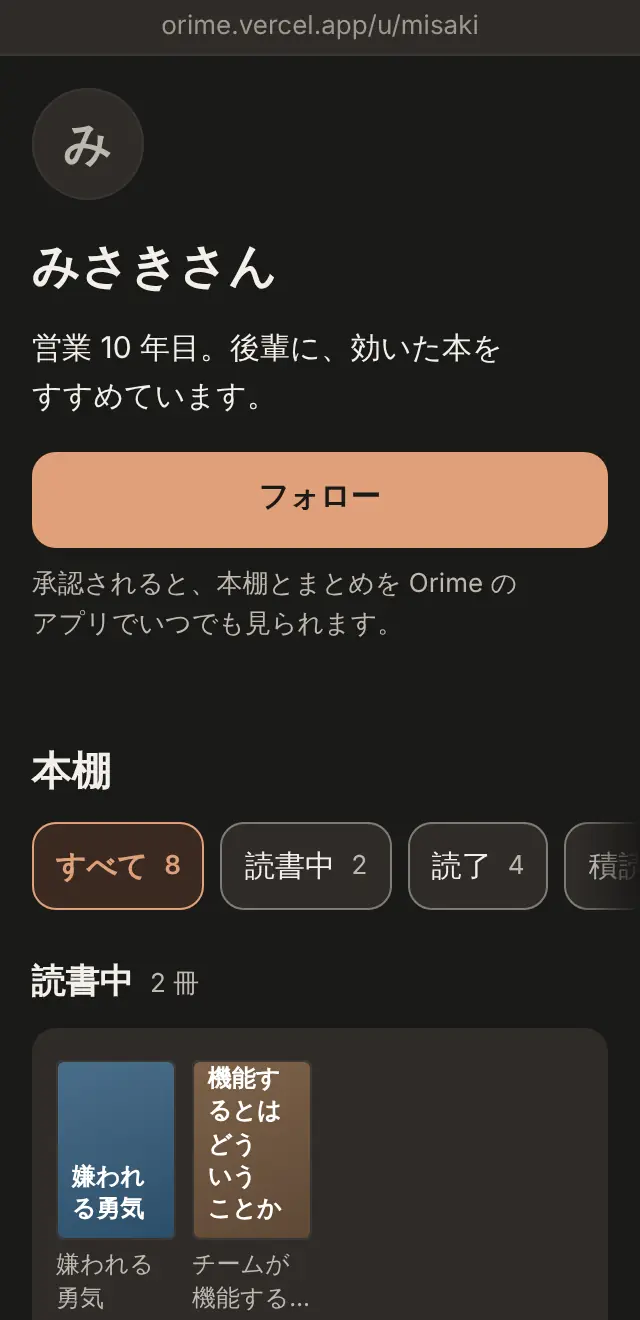
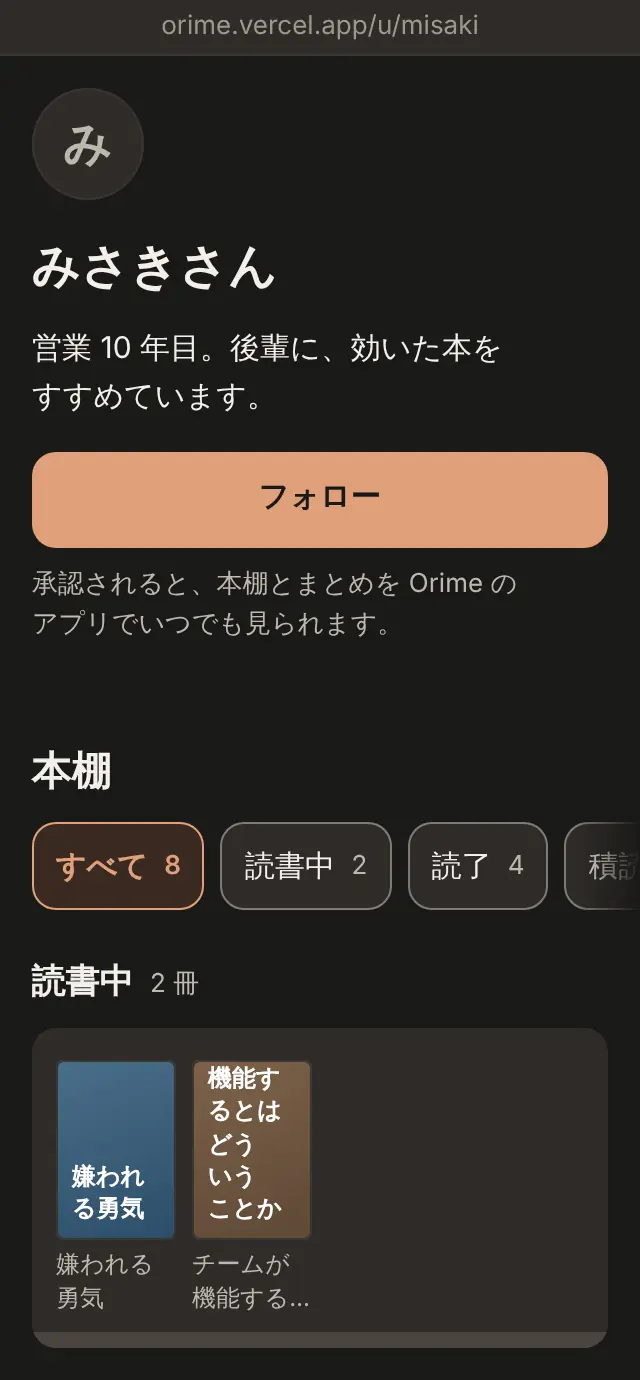
fix: LP の共有の節の画面写真を区切りで切る・広い画面で実寸に近く・リードを言い過ぎない形に
Claude-Session: https://claude.ai/code/session_01CJtCb5D8mXkG5XEeRMX4M7

diff --git a/src/pages/lpCopy.js b/src/pages/lpCopy.js
@@ -143,10 +143,10 @@ export const BASIS = {
 export const SOCIAL = {
   h2: ['薦めたい本は、', 'リンク 1 つで。'],
   soon: 'まもなく使えます',
-  lead: ['「この本、読んでみて」と、後輩や同僚に薦めるとき。', 'リンクを送れば、相手はアプリが無くても読めて、気になった本を「読みたい」に入れられます。'],
+  lead: ['「この本、読んでみて」と、後輩や同僚に薦めるとき。', 'リンクを送れば、相手はアプリが無くても読めます。'],
   shots: [
-    { name: 'social-book', caption: '1 冊を送る', alt: '共有した 1 冊のページ。書名と評価、その人の「この本のまとめ」、「読みたいに追加」のボタン' },
-    { name: 'social-shelf', caption: '本棚を見せる', alt: '公開した本棚のページ。名前と自己紹介、「フォロー」のボタン、読書中の本が本棚に並ぶ' },
+    { name: 'social-book', caption: 'この本を共有', h: 608, alt: '共有した 1 冊のページ。書名と評価、その人の「この本のまとめ」、「読みたいに追加」のボタン' },
+    { name: 'social-shelf', caption: '本棚を見せる', h: 690, alt: '公開した本棚のページ。名前と自己紹介、「フォロー」のボタン、読書中の本が本棚に並ぶ' },
   ],
   items: [
     { icon: 'book', title: 'この本を共有', body: '1 冊のページのリンクを送れます。相談のもとになる、あなたのまとめも一緒に。' },

diff --git a/src/pages/landing.css b/src/pages/landing.css
@@ -1477,9 +1477,8 @@ body.lp-active {
 .lp-web-shot {
   display: block; width: 100%; height: auto; border-radius: var(--radius);
   border: 1px solid var(--separator); background: var(--bg);
-  -webkit-mask-image: linear-gradient(to bottom, black 88%, transparent); mask-image: linear-gradient(to bottom, black 88%, transparent);
 }
-.lp-root .lp-social-cap { margin: var(--space-2) 0 0; font-size: var(--text-sub); font-weight: 600; color: var(--text); text-align: center; }
+.lp-root .lp-social-cap { margin: var(--space-2) 0 0; font-size: var(--text-sub); font-weight: 600; color: var(--text); text-align: start; }
 .lp-social-text .lp-feat { grid-template-columns: minmax(0, 1fr); }
 /* スマホ: 2 枚を横に送る（文字がほぼ実寸で読める幅・2 枚目の頭が見えて送れると分かる） */
 @media (max-width: 767px) {
@@ -1493,5 +1492,8 @@ body.lp-active {
   .lp-social-shots > li { scroll-snap-align: start; }
 }
 @media (min-width: 1024px) {
-  .lp-social-body { grid-template-columns: minmax(0, 1.1fr) minmax(0, 1fr); gap: var(--space-16); align-items: start; }
+  /* 画像 2 枚は実寸に近い幅（中の文字が 12 前後）・文の列は残り・3 つは画像の高さの中央に。題は右の列と同じなので出さない */
+  .lp-social-body { grid-template-columns: auto minmax(0, 1fr); gap: var(--space-12); align-items: center; }
+  .lp-social-shots { grid-template-columns: repeat(2, var(--lp-shot-w)); align-items: start; }
+  .lp-root .lp-social-cap { display: none; }
 }

diff --git a/src/pages/Landing.jsx b/src/pages/Landing.jsx
@@ -668,7 +668,7 @@ export default function Landing() {
               <ul className="lp-social-shots">
                 {SOCIAL.shots.map((s) => (
                   <li key={s.name}>
-                    <Shot name={s.name} alt={s.alt} ratio={[320, 660]} className="lp-web-shot" sizes="(min-width: 768px) 280px, 44vw" />
+                    <Shot name={s.name} alt={s.alt} ratio={[320, s.h]} className="lp-web-shot" sizes="(min-width: 768px) 300px, 80vw" />
                     <p className="lp-social-cap">{s.caption}</p>
                   </li>
                 ))}

diff --git a/SPEC.md b/SPEC.md
@@ -254,7 +254,7 @@
 - エッジケース：同時に 2 か所から聞かれてもシートは 1 枚。シートはメモを書くシート・設定の上に重なる（`BottomSheet` の `layer="dialog"`）。サーバーは同意で止めない（この版では・`docs/ai-routing.md`）。
 
 ### 1-4. LP（紹介ページ・ログインしていない人の「/」と「/lp」）
-- **いまの形（2026-11-23 リリース前の仕上げ・ここがいちばん新しい・下の古い記録より優先）**：並びは **ヒーロー**（h1「読んだ本が、相談相手になる。」＋3 行「「あの著者なら、どう考える？」／読んだ本と、もう一度出会い、会話する。／あなたが残した読書メモをもとに、AI がその本の考え方で答えます。」＋主ボタン「読んだ本と話してみる」＋15/`--text-2`「無料プランで始められます（iPhone）」＋文字のリンク「相談の見本を見る」）→ **たとえば、こんな相談。**（`#lp-grow`・実際の 1 つの相談＝問い → 答え＋もとのメモの引用（明朝・左に栗色の線・「『考え方』に残したメモ ほか 2 件」）→ あなたに聞きたいこと → 返事 → 明日からできる一歩 → 行動リストに入る・注記は会話の真下に 1 回「見本です。答えは AI によるもので、著者本人の言葉ではありません。／実際の答えは、あなたのメモで変わります。」・広い画面は左に見出し（上に残る）・右に会話）→ **答えのもとは、あなたのメモ。**（2 行・聞く相手は、選べます＝1 冊／何冊か／本棚ぜんぶ・「相談するたびに、読んだことを思い出す。読みっぱなしで終わりません。」）→ **メモがゼロでも、今日から。**（帯・取り込む／ページを撮ってメモに／一行から相談する）→ **薦めたい本は、リンク 1 つで。**（2026-11-23 オーナー「本棚のシェアやフォローは拡散の重要な要素・LP に必ず入れる・優秀な社会人はおすすめの本を教える」「近日公開（文言は変えて）の形で」・`data-lp-sec="social"`・帯（上の帯とは 1 本の線）・見出しの上に印「まもなく使えます」（`--accent-soft` の面・出たら消す）→ リード 2 行「「この本、読んでみて」と、後輩や同僚に薦めるとき。／リンクを送れば、相手はアプリが無くても読めて、気になった本を「読みたい」に入れられます。」→ 公開のページの画面写真 2 枚（1 冊を送る＝共有した 1 冊のページ／本棚を見せる＝名前・フォロー・本棚・`scripts/lp-social-shots.mjs` が `api/_profilePage.js` を見本の人の本で 320 幅に描き、上に住所の行を足して撮る・端末の枠ではなく角丸 12 の札・スマホは横に送る 80vw・広い画面は左に 2 枚・右に 3 つ）＋3 つ（この本を共有／本棚を見せる／フォロー）。**補足・注意書きの一文は置かない**（同日オーナー「公開するかどうかは、あなたが決めます…のような文章は蛇足なので不要」）→ **ほかにできること**（大きな 2 枚＝読書計画シート・AI 選書（有料プラン）＋ 4 行＝目標から逆算・時間を決めて読む・一文を画像に・記録の基本）→ **料金**（無料プラン・月額・年額のカード（広い画面は中身の高さ）→ 1 日あたりの物差し（題 → 図 → 注記を左ぞろえの 1 列）→ 創業メンバー価格の表＝期限は年つき・価格は「1 年目 ¥9,800（税込）。2 年目から年額 ¥12,800（税込）で自動更新」・期間中は「この期間は、7 日間無料はありません」→ ボタン「読んだ本と話してみる」（広い画面は右に QR）＋「無料プランで始められます（iPhone）」＝判断に要る情報を読み終えた所に 1 つ）→ **よくある質問**（何をもとに／メモがなくても始められるか／Android・パソコン／通常の AI との違い／無料プラン（「はじめの 2 か月」の定義つき）／7 日間無料（期間中だけ）／解約／学習）→ **最後の入口**（「今日の一行が、いつかのあなたの答えになる。」＋主ボタン「読んだ本と話してみる」）。主ボタンはヒーロー・下の固定の帯・最後とも同じ名前、ヘッダー（広い画面）は「App Store で入手」。やめたもの: 困りごとの節・2 本目の会話（`SCENE`）・4 段の図・忘却曲線と研究の名前・読書の輪の図（効果をほのめかさない）・目標の節（ほかにできることの 1 行に）・出ている iPhone のアプリに無い機能（本棚を撮って登録）。タイトルは「Orime｜読んだ本が、相談相手になる読書メモアプリ」。点検は `node scripts/lp-audit-shots.mjs <出力> http://localhost:4173/lp`（`npm run build && npx vite preview` のあと＝本番と同じ env）。
+- **いまの形（2026-11-23 リリース前の仕上げ・ここがいちばん新しい・下の古い記録より優先）**：並びは **ヒーロー**（h1「読んだ本が、相談相手になる。」＋3 行「「あの著者なら、どう考える？」／読んだ本と、もう一度出会い、会話する。／あなたが残した読書メモをもとに、AI がその本の考え方で答えます。」＋主ボタン「読んだ本と話してみる」＋15/`--text-2`「無料プランで始められます（iPhone）」＋文字のリンク「相談の見本を見る」）→ **たとえば、こんな相談。**（`#lp-grow`・実際の 1 つの相談＝問い → 答え＋もとのメモの引用（明朝・左に栗色の線・「『考え方』に残したメモ ほか 2 件」）→ あなたに聞きたいこと → 返事 → 明日からできる一歩 → 行動リストに入る・注記は会話の真下に 1 回「見本です。答えは AI によるもので、著者本人の言葉ではありません。／実際の答えは、あなたのメモで変わります。」・広い画面は左に見出し（上に残る）・右に会話）→ **答えのもとは、あなたのメモ。**（2 行・聞く相手は、選べます＝1 冊／何冊か／本棚ぜんぶ・「相談するたびに、読んだことを思い出す。読みっぱなしで終わりません。」）→ **メモがゼロでも、今日から。**（帯・取り込む／ページを撮ってメモに／一行から相談する）→ **薦めたい本は、リンク 1 つで。**（2026-11-23 オーナー「本棚のシェアやフォローは拡散の重要な要素・LP に必ず入れる・優秀な社会人はおすすめの本を教える」「近日公開（文言は変えて）の形で」・`data-lp-sec="social"`・帯（上の帯とは 1 本の線）・見出しの上に印「まもなく使えます」（`--accent-soft` の面・出たら消す）→ リード 2 行「「この本、読んでみて」と、後輩や同僚に薦めるとき。／リンクを送れば、相手はアプリが無くても読めます。」→ 公開のページの画面写真 2 枚（この本を共有＝共有した 1 冊のページ／本棚を見せる＝名前・フォロー・本棚・`scripts/lp-social-shots.mjs` が `api/_profilePage.js` を見本の人の本で 320 幅に描き、上に住所の行を足し、区切りの良い所（Amazon の行・最初の段の本の下 16）で切って撮る・端末の枠ではなく 4 辺の閉じた角丸 12 の札・スマホは横に送る 80vw＋左ぞろえの題・広い画面は左に 2 枚（各 `--lp-shot-w`）・右に 3 つ（画像の高さの中央・題は出さない））＋3 つ（この本を共有／本棚を見せる／フォロー）。**補足・注意書きの一文は置かない**（同日オーナー「公開するかどうかは、あなたが決めます…のような文章は蛇足なので不要」）→ **ほかにできること**（大きな 2 枚＝読書計画シート・AI 選書（有料プラン）＋ 4 行＝目標から逆算・時間を決めて読む・一文を画像に・記録の基本）→ **料金**（無料プラン・月額・年額のカード（広い画面は中身の高さ）→ 1 日あたりの物差し（題 → 図 → 注記を左ぞろえの 1 列）→ 創業メンバー価格の表＝期限は年つき・価格は「1 年目 ¥9,800（税込）。2 年目から年額 ¥12,800（税込）で自動更新」・期間中は「この期間は、7 日間無料はありません」→ ボタン「読んだ本と話してみる」（広い画面は右に QR）＋「無料プランで始められます（iPhone）」＝判断に要る情報を読み終えた所に 1 つ）→ **よくある質問**（何をもとに／メモがなくても始められるか／Android・パソコン／通常の AI との違い／無料プラン（「はじめの 2 か月」の定義つき）／7 日間無料（期間中だけ）／解約／学習）→ **最後の入口**（「今日の一行が、いつかのあなたの答えになる。」＋主ボタン「読んだ本と話してみる」）。主ボタンはヒーロー・下の固定の帯・最後とも同じ名前、ヘッダー（広い画面）は「App Store で入手」。やめたもの: 困りごとの節・2 本目の会話（`SCENE`）・4 段の図・忘却曲線と研究の名前・読書の輪の図（効果をほのめかさない）・目標の節（ほかにできることの 1 行に）・出ている iPhone のアプリに無い機能（本棚を撮って登録）。タイトルは「Orime｜読んだ本が、相談相手になる読書メモアプリ」。点検は `node scripts/lp-audit-shots.mjs <出力> http://localhost:4173/lp`（`npm run build && npx vite preview` のあと＝本番と同じ env）。
 - （2026-11-15 オーナー「目標・ロードマップ・読書計画カレンダーの内容も LP に入れたい」）なぜ効くの節のあと・ほかにできることの前に **「1 年後の自分から、逆算して読む。」**（`data-lp-sec="goal"`・帯にしない）: リード 2 行（「1 年後・3 年後・5 年後の目標を書いて、「達成するには？」に答える。」「必要なこと、今の課題、読む本の順番が、1 本の道のりになります。」）→ 図（`LpGoalDiagram.jsx`＝流れの図と同じ形・目標 › 達成するには？ › ロードマップ › 読む本のカレンダー）→ 2 台の画面を横に（`goal-road`＝道のり・`goal-plan`＝カレンダー・`npm run lp:shots -- goal-road goal-plan`・下に 2 行の説明）→ 1 文「相談や AI 選書で、まだ書いていなかった課題が見えたら、／ロードマップと読書計画も、あとから育っていきます。」→ 注記「画面は見本です。目標と答えによって、道のりは変わります。」。文は `lpCopy.js` の `GOAL_SEC`（言い切らない・数字の目標を作らない）。
 （2026-10-05 にマーケティングの 4 つの報告で作り直し → 2026-10-11 に公開している前提・「読書を、受け身から対話へ」で作り直し（同日オーナー「対話は違和感がある」で LP の「対話」は「会話」に＝見出し「読んだ本と、会話しよう。」）＝訴求の正は `company/marketing-master-plan-2026-10.md` §0）
 - **役割（1 文）**：「**読んだ本と、会話しよう。**」を実画面（1 冊の本に相談し、本の語り口で答えている所）で見せて、App Store から入手してもらう。相手は読書の成果を最大にしたい人・読書を習慣にしたい人・意識の高い社会人・大学生（立場では絞らない・チーム向けは書かない）。「著者と話せる」とは書かず「本の語り口で答える」「本と会話する」まで。語り口の注記（「答えは、AI が本とあなたのメモから語り口をまねたもので、著者本人の言葉ではありません。」）はヒーローの写真の下の 1 か所（`lpCopy.js` の `VOICE_NOTE`・FAQ にも）。
